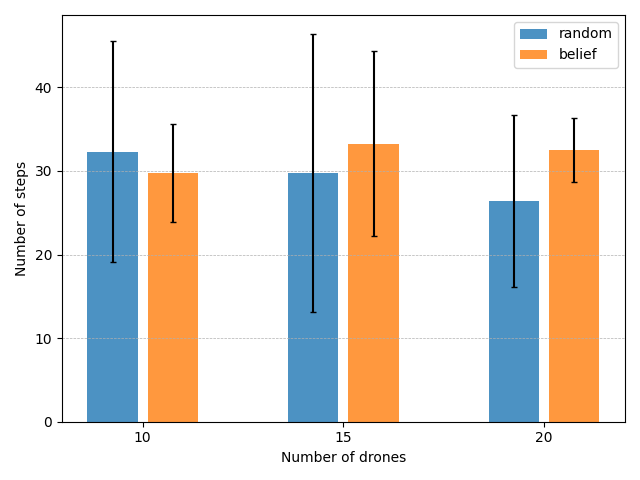
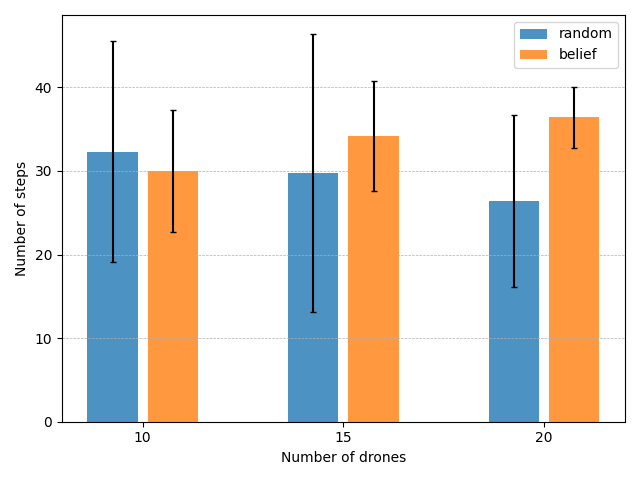
Update the test results figures

diff --git a/sim/controller/src/argos/results/results_summarize.py b/sim/controller/src/argos/results/results_summarize.py
@@ -8,6 +8,9 @@ import glob
 from statistics import stdev, variance, mean
 
 result_types = ["_10_random.txt", "_15_random.txt", "_20_random.txt", "_10_belief.txt", "_15_belief.txt", "_20_belief.txt"]
+TARGET_ID = "target_"
+RELAY_ID = "relay_"
+
 def print_usage():
     print("This script takes the experiment ID (ex:target_2020), find all the needed result files\
  (with each line containing \"step,drone_id\"), and will create a statistical graph.")
@@ -21,28 +24,22 @@ def check_all_files_exist(experiment_ID, file_list):
             print(experiment_ID + result_type + "do not exist!")
             exit()
 
-if __name__ == '__main__':
-    if sys.argv[1] == "-h":
-        print_usage()
-    if len(sys.argv) != 3:
-        print("Error: Wrong arguments!")
-        print_usage()
-    
+def get_target_relay_results(area_size):
     cur_dir = os.getcwd()
     file_list = os.listdir(cur_dir)
 
-    check_all_files_exist(sys.argv[1], file_list)
+    check_all_files_exist(TARGET_ID + area_size, file_list)
     results = {}
     relay_results = {}
     for result_type in result_types:
         results[result_type] = []
         relay_results[result_type] = []
         relay_lines = []
-        with open(sys.argv[2] + result_type) as file:
+        with open(RELAY_ID + area_size + result_type) as file:
             for line in file:
                 relay_lines.append(line)
         
-        with open(sys.argv[1] + result_type) as file:
+        with open(TARGET_ID + area_size + result_type) as file:
             i = 0
             for line in file:
                 target_step = int(line.rstrip().split(',')[0])
@@ -94,45 +91,115 @@ if __name__ == '__main__':
             y_belief_relay.append(mean(values))
             x_belief_relay.append(int(result_type[1:3]))
             e_belief_relay.append(stdev(values))
+    results = {}
+    results["x_target_rand"] = x_random
+    results["x_target_belief"] = x_belief
+    results["y_target_rand"] = y_random
+    results["y_target_belief"] = y_belief
+    results["e_target_rand"] = e_random
+    results["e_target_belief"] = e_belief
+
+    results["x_relay_rand"] = x_random_relay
+    results["x_relay_belief"] = x_belief_relay
+    results["y_relay_rand"] = y_random_relay
+    results["y_relay_belief"] = y_belief_relay
+    results["e_relay_rand"] = e_random_relay
+    results["e_relay_belief"] = e_belief_relay
+    return results
+
+    # # TODO: ADD PLOT FOR RELAY
+    # x_r = np.arange(len(x_random_relay))
+    # x_b = np.arange(len(x_belief_relay))
+    # width = 0.25  # the width of the bars
+
+    # fig, ax = plt.subplots()
+    # rects1 = ax.bar(x_r - width/2 - 0.025, y_random_relay, width, yerr=e_random_relay, capsize=2.5, align='center', alpha=0.8, label='random')
+    # rects2 = ax.bar(x_b + width/2 + 0.025, y_belief_relay, width, yerr=e_belief_relay, capsize=2.5, align='center', alpha=0.8, label='belief')
+
+    # ax.set_ylabel('Number of steps')
+    # ax.set_xlabel('Number of drones')
+    # # ax.set_title('Scores by group and gender')
+    # ax.set_xticks(x_r)
+    # ax.set_xticklabels(x_random_relay)
+    # ax.legend()
+
+    # fig.tight_layout()
+    # plt.grid(axis = 'y', linestyle = '--', linewidth = 0.5)
+    # # plt.savefig(sys.argv[2] + ".png")
+    # # plt.show()
+
+    # x_r = np.arange(len(x_random))
+    # x_b = np.arange(len(x_belief))
+    # width = 0.25  # the width of the bars
+
+    # fig, ax = plt.subplots()
+    # rects1 = ax.bar(x_r - width/2 - 0.025, y_random, width, yerr=e_random, capsize=2.5, align='center', alpha=0.8, label='random')
+    # rects2 = ax.bar(x_b + width/2 + 0.025, y_belief, width, yerr=e_belief, capsize=2.5, align='center', alpha=0.8, label='belief')
+
+    # ax.set_ylabel('Number of steps')
+    # ax.set_xlabel('Number of drones')
+    # # ax.set_title('Scores by group and gender')
+    # ax.set_xticks(x_r)
+    # ax.set_xticklabels(x_random)
+    # ax.legend()
+
+    # fig.tight_layout()
+    # plt.grid(axis = 'y', linestyle = '--', linewidth = 0.5)
+    # # plt.savefig(sys.argv[1] + ".png")
+    # # plt.show()
+
+def plot(res, ax, title, is_target):
+    plot_type = "target" if is_target else "relay"
+    x_rand = np.arange(len(res["x_" + plot_type + "_rand"]))
+    x_belief = np.arange(len(res["x_" + plot_type + "_belief"]))
+    width = 0.25  # the width of the bars
+
+    if is_target:
+        ax.bar(x_rand - width/2 - 0.025, res["y_" + plot_type + "_rand"], width, yerr=res["e_" + plot_type + "_rand"], capsize=2.5, align='center', alpha=0.8, label='random')
+        ax.bar(x_belief + width/2 + 0.025, res["y_" + plot_type + "_belief"], width, yerr=res["e_" + plot_type + "_belief"], capsize=2.5, align='center', alpha=0.8, label='belief')
+    else:
+        ax.bar(x_rand - width/2 - 0.025, res["y_" + plot_type + "_rand"], width, yerr=res["e_" + plot_type + "_rand"], capsize=2.5, align='center', alpha=0.7, label='random', color="green")
+        ax.bar(x_belief + width/2 + 0.025, res["y_" + plot_type + "_belief"], width, yerr=res["e_" + plot_type + "_belief"], capsize=2.5, align='center', alpha=0.7, label='belief', color="red")
+
+    ax.set_ylabel('Number of steps')
+    ax.set_xlabel('Number of drones')
+    ax.set_title(title)
+    ax.set_xticks(x_rand)
+    ax.set_xticklabels(res["x_" + plot_type + "_rand"])
+    ax.legend()
+    ax.grid(axis = 'y', linestyle = '--', linewidth = 0.5)
+
+if __name__ == '__main__':
+    # if sys.argv[1] == "-h":
+    #     print_usage()
+    # if len(sys.argv) != 3:
+    #     print("Error: Wrong arguments!")
+    #     print_usage()
+    results_2020 = get_target_relay_results("2020")
+    results_3030 = get_target_relay_results("3030")
+    results_4040 = get_target_relay_results("4040")
+    all = [results_2020, results_3030, results_4040]
+    titles = ["20 x 20", "30 x 30", "40 x 40"]
     
-    # TODO: ADD PLOT FOR RELAY
-    x_r = np.arange(len(x_random_relay))
-    x_b = np.arange(len(x_belief_relay))
-    width = 0.25  # the width of the bars
+    fig_t, (ax1_target, ax2_target, ax3_target) = plt.subplots(1, 3)
+    ax_t = [ax1_target, ax2_target, ax3_target]
 
-    fig, ax = plt.subplots()
-    rects1 = ax.bar(x_r - width/2 - 0.025, y_random_relay, width, yerr=e_random_relay, capsize=2.5, align='center', alpha=0.8, label='random')
-    rects2 = ax.bar(x_b + width/2 + 0.025, y_belief_relay, width, yerr=e_belief_relay, capsize=2.5, align='center', alpha=0.8, label='belief')
+    for i in range(len(all)):
+        plot(all[i], ax_t[i], titles[i], True)
 
-    ax.set_ylabel('Number of steps')
-    ax.set_xlabel('Number of drones')
-    # ax.set_title('Scores by group and gender')
-    ax.set_xticks(x_r)
-    ax.set_xticklabels(x_random_relay)
-    ax.legend()
+    fig_t.tight_layout()
+    # plt.grid(axis = 'y', linestyle = '--', linewidth = 0.5)
+    plt.savefig("target" + ".png")
 
-    fig.tight_layout()
-    plt.grid(axis = 'y', linestyle = '--', linewidth = 0.5)
-    plt.savefig(sys.argv[2] + ".png")
+    fig_r, (ax1_relay, ax2_relay, ax3_relay) = plt.subplots(1, 3)
+    ax_r = [ax1_relay, ax2_relay, ax3_relay]
+
+    for i in range(len(all)):
+        plot(all[i], ax_r[i], titles[i], False)
+
+    fig_r.tight_layout()
+    plt.savefig("relay" + ".png")
+
+    # plt.grid(axis = 'y', linestyle = '--', linewidth = 0.5)
     # plt.show()
-
-    x_r = np.arange(len(x_random))
-    x_b = np.arange(len(x_belief))
-    width = 0.25  # the width of the bars
-
-    fig, ax = plt.subplots()
-    rects1 = ax.bar(x_r - width/2 - 0.025, y_random, width, yerr=e_random, capsize=2.5, align='center', alpha=0.8, label='random')
-    rects2 = ax.bar(x_b + width/2 + 0.025, y_belief, width, yerr=e_belief, capsize=2.5, align='center', alpha=0.8, label='belief')
-
-    ax.set_ylabel('Number of steps')
-    ax.set_xlabel('Number of drones')
-    # ax.set_title('Scores by group and gender')
-    ax.set_xticks(x_r)
-    ax.set_xticklabels(x_random)
-    ax.legend()
-
-    fig.tight_layout()
-    plt.grid(axis = 'y', linestyle = '--', linewidth = 0.5)
-    plt.savefig(sys.argv[1] + ".png")
-    plt.show()
     
